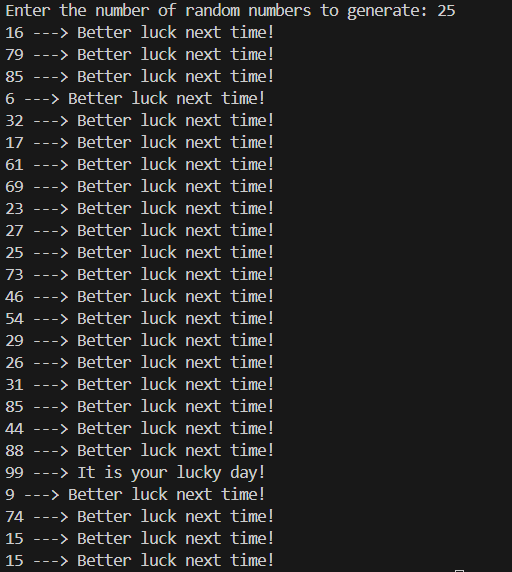
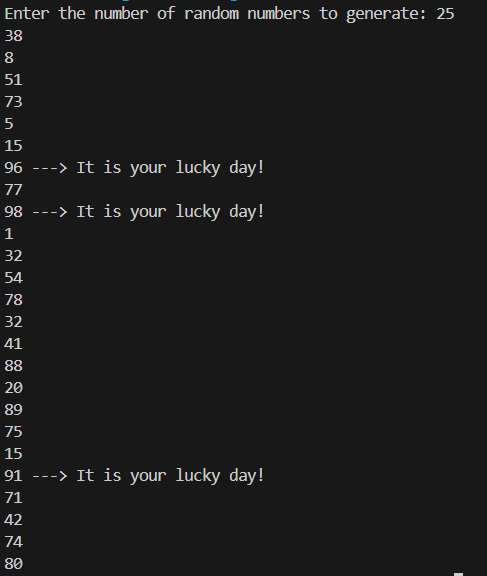
Random Number Generator

Changed region(s): [[0.0, 0.0, 0.924, 1.0], [0.924, 0.9808, 0.9548, 1.0]]

diff --git a/Random Number Generator/RandomNumberGenerator.py b/Random Number Generator/RandomNumberGenerator.py
@@ -6,4 +6,6 @@ for i in l:
     if i>90:
         print(i, "---> It is your lucky day!")
     else:
-        print(i, "---> Better luck next time!")
+        print(i)
+
+# This code generates 'n' random numbers between 1 and 100, and if a number is greater than 90, a special message is generated.

diff --git a/Random Number Generator/readMe.md b/Random Number Generator/readMe.md
@@ -12,5 +12,3 @@ O/P:
 ![alt text](image.png)
 
 ![alt text](image-1.png)
-
-![alt text](image-2.png)
